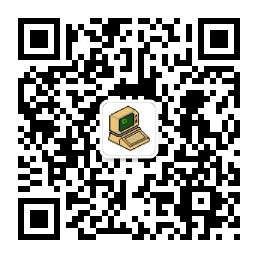
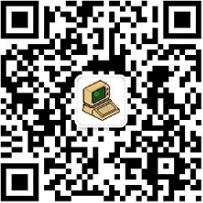
wx

diff --git a/pages/about.md b/pages/about.md
@@ -34,6 +34,8 @@ comments: false
 
 **复古电脑博物馆**是一个由个人业余维护的、非营利性的、以教育和科普为目标的网站。其目标是向包括中国大陆在内的华语地区的爱好者们提供电脑考古、复古计算资源，致力于弥补互联网盛行之前缺失的中文电脑历史信息。诚挚地希望**复古电脑博物馆**能成为一个长期运行的中文计算机文化品牌，始终以纯净、公益的状态继续运行下去。
 
+![通过微信与复古电脑博物馆馆长成为朋友](/images/wx_director.jpg)
+
 ### Director of the Computer Museum
 
 My name is Honux, and I'm the curator of this museum, a technical enthusiast, retro computer culture researcher, CPU collector, programmer and professor of engineering.
